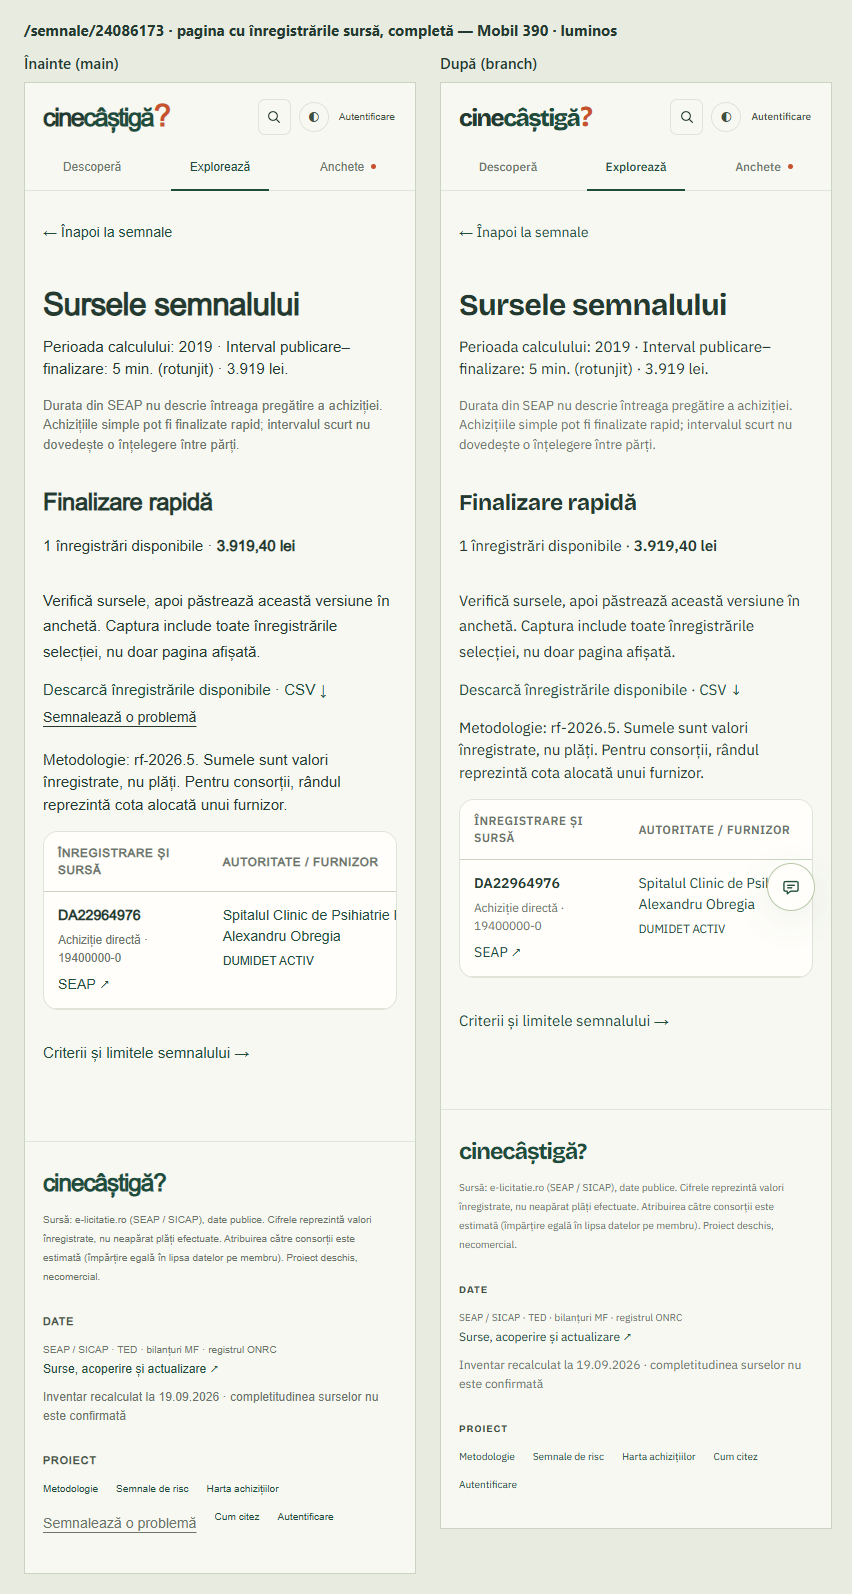
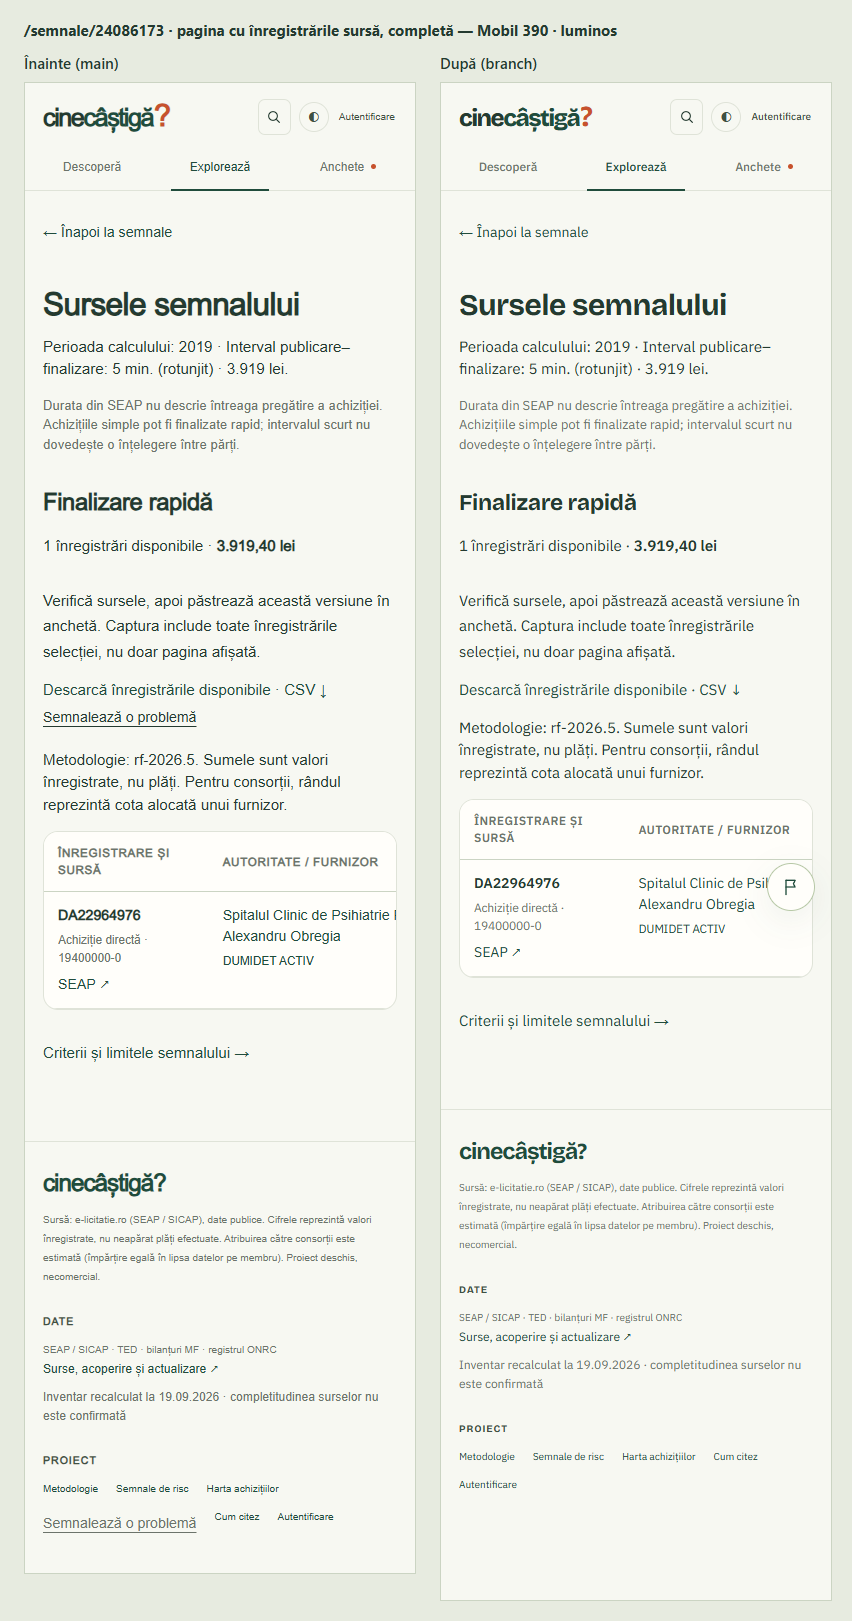
docs(feedback): dual-agent critique, refreshed previews and notes
- Dual-agent Impeccable critique snapshot (26/40; supersedes the earlier
  single-context run) and updated surface brief.
- Before/after captures re-taken against main, now including a 1280px
  laptop view; compare.json still reports HTTP 200, no overflow, no JS errors.
- anonymous-feedback.md, HANDOFF.md and the mockup README describe the final
  placement thresholds, flag icon and the critique fixes.

diff --git a/.impeccable/critique/2026-10-02T16-50-16Z__apps-web-components-feedback-reportproblem-tsx.md b/.impeccable/critique/2026-10-02T16-50-16Z__apps-web-components-feedback-reportproblem-tsx.md
@@ -1,0 +1,67 @@
+---
+target: floating Feedback tab (ReportProblem) - dual-agent
+total_score: 26
+max_score: 40
+na_heuristics: 
+p0_count: 0
+p1_count: 2
+target_identity: "file:F:\\CineCastiga\\seap-new\\apps\\web\\components\\feedback\\ReportProblem.tsx"
+target_fingerprint: "sha256:b647631ecc3925bb003219f9d031a194baafc1e752466b4918877f11a8278ab2"
+target_path: "F:\\CineCastiga\\seap-new\\apps\\web\\components\\feedback\\ReportProblem.tsx"
+timestamp: 2026-10-02T16-50-16Z
+slug: apps-web-components-feedback-reportproblem-tsx
+---
+Method: dual-agent (A: design-review sub-agent · B: detector/browser sub-agent)
+
+# Critique — floating Feedback tab (feat/floating-feedback), dual-agent re-run
+
+Target: `apps/web/components/feedback/ReportProblem.tsx`, `feedback.css`, `app/layout.tsx`; live on localhost (local snapshot data `seap_collab_20261001`, older than production). Mode: Operate. Supersedes the single-context run of the same day (31/40, degraded).
+
+| # | Heuristic | Score | Key Issue |
+|---|-----------|-------|-----------|
+| 1 | Visibility of System Status | 3 | Sending/success states are clear; the attached page silently goes stale after client-side navigation |
+| 2 | Match System / Real World | 3 | Romanian copy is natural, but "Feedback" plus a chat icon implies a conversation; the raw path is technical |
+| 3 | User Control and Freedom | 3 | Esc, ×, Renunță and focus return work; the attached page can't be corrected |
+| 4 | Consistency and Standards | 2 | aria-label promises "trimite o sugestie" but the dialog says "Descrie problema"; two focus-ring styles |
+| 5 | Error Prevention | 2 | Content collides with the tab; stale page attachment; 20-character minimum not shown up front |
+| 6 | Recognition Rather Than Recall | 3 | Always visible and labelled on desktop; icon-only on mobile |
+| 7 | Flexibility and Efficiency | 2 | Last tab stop; no in-context entry point; category never adapts to the page |
+| 8 | Aesthetic and Minimalist Design | 3 | Quiet and on-brand, but intrudes on content edges at common widths |
+| 9 | Error Recovery | 3 | Excellent timeout/409 messages; short input shows the browser's English bubble instead |
+| 10 | Help and Documentation | 2 | Privacy explained; nothing says what happens to a report |
+| **Total** | | **26/40** | **Acceptable** |
+
+## Design specificity
+LLM (A): the entry point is the stock SaaS feedback widget (right-edge vertical "Feedback" tab with a chat bubble). It is token-perfect and dark-mode clean, but generic in concept. The product-specific part is the existing dialog copy ("Ce ai observat?", "indică instituția, contractul sau cifra", "Pagina atașată"). Missed opportunity: a Romanian action label, and carrying record/answer context into the report.
+Deterministic (B): CLI markup scan (ReportProblem.tsx, layout.tsx) was clean, 0 findings. CSS scan found 3 advisories, all on dialog rules that existed before this branch (backdrop literal colour, 14px error text, 25px mobile h2). Browser overlay (port 8400, own tab, dark theme): /semnale/24086173 desktop had 7 findings, 1 on the change; mobile had 13, 1 on the change; /metodologie with the dialog open had 46, 1 on the change and 0 on the dialog. The single on-change finding is "1px border + 35px shadow blur" on `.feedback-fab`. It is likely token-consistent rather than a defect: `--shadow2` is used about 22 times and the search dialog gets the same flag. Everything else (line length, side-tab cards, 9–11px text in the search dialog and footer) predates this change. The overlay ran in a temporary tab that was closed; none remains.
+Agreement: both find the tab token-disciplined. A caught behavioural defects (stale page, overlap at specific widths, native validation) that no detector rule covers.
+
+## Overall impression
+Calm, on-brand and mechanically solid, but generic in concept. Two real defects need fixing before merge: reports can carry the wrong page, and the tab can hide exact values at some widths.
+
+## What's working
+- Token discipline in both themes, hidden in print, reduced motion respected, accent-soft hover.
+- Dialog mechanics: native modal in the top layer, Esc returns focus to the trigger, draft survives closing, idempotent submit, honeypot, privacy copy first.
+- Responsive switch to a 48px corner button with safe-area offset; label-in-name holds ("Feedback" starts the aria-label).
+
+## Priority issues
+- **[P1] The attached page goes stale.** One persistent layout instance only refreshes `sourcePath` when a new draft starts. Reproduced: open on /intreaba, type, Esc, navigate to / → still "Pagina atașată: /intreaba". Admins get the wrong page, which breaks traceability. Fix: refresh `sourcePath` from `pathname` on every open; keep the draft. Command: /impeccable harden.
+- **[P1] The tab covers content at many widths.** At 710px it clips "3.919,40" to "3.919,4" in the exact-value column; at 768, 1024 and 1280px it overlaps the table card or content edge by 5–10px; at 375px the round button sits on the full-width "Vezi cele 4 achiziții" button. Hiding exact values violates a core invariant. Fix: show the edge tab only with a real gutter (about ≥1360px) and use the corner button below that; reserve bottom padding on small screens. Command: /impeccable adapt.
+- **[P2] Keyboard and screen-reader reach.** It is the last tab stop (after the footer) and sits outside landmarks. Fix: wrap it in a labelled `<aside>` landmark (or add a skip link). Command: /impeccable harden.
+- **[P2] The label and icon promise a conversation.** "Feedback" plus a chat bubble suggests a reply channel; the copy is problem-only and anonymous. Fix: a flag-style icon and/or a Romanian action label; field label follows the category. Command: /impeccable clarify.
+
+## Persona red flags
+- **Sam (accessibility):** last tab stop, outside landmarks; dialog focus starts on the × close button rather than the first field; too-short input shows the browser's English bubble, never the Romanian role=alert message.
+- **Casey (mobile):** the corner button overlaps the full-width primary button on /intreaba; last footer lines pass under it; at 320×640 "Trimite anonim" sits below the fold; icon-only.
+- **Jordan (first-timer):** the chat icon implies someone will reply; the 20-character minimum is hidden until it fails ("17 / 3.000"); the attached page is a raw path, sometimes the wrong one.
+
+## Minor observations
+- Placeholder now uses `--ink2` (#3f5043), close to ink, so it reads as pre-filled text. This is a side effect of the variable fix; the app's other placeholders use `--muted`.
+- Header and tab both use z-index 30; no conflict observed.
+- The dark backdrop barely separates the dialog. The button shows on /login (no page attached). /admin hiding verified in code (logged-out /admin redirects to /login).
+- Pre-existing: `required minLength` triggers native validation before the Romanian message; "Renunță" keeps the draft; Explore attaches only "/intreaba" by design; hydration mismatch from the `<Reveal />` component.
+
+## Questions to consider
+- If the most valuable report is "this number is wrong", should the entry point carry the record or answer title into the dialog?
+- Should the edge tab appear only where a real gutter exists?
+- What could an anonymous reporter get back (a reference code, a link to known issues or coverage) so the flow doesn't end at a dead end?

diff --git a/apps/web/.impeccable/surfaces/apps-web-components-feedback-reportproblem-tsx.md b/apps/web/.impeccable/surfaces/apps-web-components-feedback-reportproblem-tsx.md
@@ -13,11 +13,11 @@ Mode: Operate. Primary target `apps/web/components/feedback/ReportProblem.tsx`; 
 
 THESIS: One quiet, always-available entry point for anonymous feedback, docked to the right edge. The existing dialog, copy, attached-page rules, validation, idempotency and privacy stay unchanged.
 
-OWN-WORLD: Existing tokens only: surface background, accent text, accent-line border, `--shadow2` elevation, Plex 500 14px, 8px radius on the free (left) corners, the shared orange focus ring, dark-theme variables. No new color, font or motion vocabulary.
+OWN-WORLD: Existing tokens only (flag icon, not a chat bubble: reporting, not a conversation; wrapped in `<aside aria-label="Feedback">`): surface background, accent text, accent-line border, `--shadow2` elevation, Plex 500 14px, 8px radius on the free (left) corners, the shared orange focus ring, dark-theme variables. No new color, font or motion vocabulary.
 
 STORY: The visitor notices a data problem or has a suggestion on any public page, opens the right-edge "Feedback" tab, sees the existing dialog with the public page attached, sends anonymously, and focus returns to the tab.
 
-FIRST VIEWPORT: Desktop: a vertical tab (icon + "Feedback", top-to-bottom), vertically centred on the right edge. At ≤700px it becomes a 48px round icon button in the bottom-right corner (16px + safe area), changed after the critique so it never covers the content edge; the accessible name stays "Feedback: semnalează o problemă sau trimite o sugestie". Hidden on `/admin/*` and in print.
+FIRST VIEWPORT: ≥1360px (where the 1256px shell leaves a real gutter): a vertical tab (flag icon + "Feedback", top-to-bottom), vertically centred on the right edge, 42–82px clear of content. Below 1360px: a 48px round flag button in the bottom-right corner (24px; 16px ≤700px; plus safe area), and the footer reserves 72px at the bottom. Both thresholds came from the dual-agent critique (the tab clipped an exact value at 710px and overlapped tables at 768–1340px); the accessible name stays "Feedback: semnalează o problemă sau trimite o sugestie". Hidden on `/admin/*` and in print.
 
 FORM: Replaces all three inline "Semnalează o problemă" triggers (footer, Explore answer actions, source-evidence pages), as the user decided. z-index 30: above sticky subnavs (≤20), below popovers (40), tooltips and toasts; modal dialogs (feedback, evidence drawer) live in the top layer and cover it. Reduced motion removes the hover transition.
 

diff --git a/HANDOFF.md b/HANDOFF.md
@@ -1,6 +1,6 @@
 ## 2026-10-02 — Buton „Feedback” plutitor, local
 
-Prima funcționalitate a colaboratorului, pe branch-ul `feat/floating-feedback` (fără commit/push la momentul notei; review și merge doar de proprietar). Linkurile „Semnalează o problemă” (footer, Explorează, pagini-sursă) sunt înlocuite de un singur buton „Feedback” lipit de marginea dreaptă, ales din [mockup](mockups/floating-feedback/README.md) (varianta A, discret). Ascuns în `/admin`; pe telefon, buton rotund în colțul din dreapta jos (ajustare după critica de design, 31/40); dialogul și API-ul neschimbate. Corectate separat variabilele CSS inexistente ale dialogului (câmpurile nu aveau contur). [Detalii și verificări](docs/implementation/anonymous-feedback.md#buton-feedback-plutitor--2-octombrie-2026); comparații înainte/după în `docs/implementation/previews/floating-feedback/`. TypeScript, 370 teste unitare web (148 integrări sărite), build și verificări browser trecute pe Windows/Node 22 cu baza locală restaurată. Fără migrare, SEAP sau deploy.
+Prima funcționalitate a colaboratorului, pe branch-ul `feat/floating-feedback` (fără commit/push la momentul notei; review și merge doar de proprietar). Linkurile „Semnalează o problemă” (footer, Explorează, pagini-sursă) sunt înlocuite de un singur buton „Feedback” lipit de marginea dreaptă, ales din [mockup](mockups/floating-feedback/README.md) (varianta A, discret). Tab doar de la 1360px în sus (unde există margine), sub prag buton rotund cu steag în colțul din dreapta jos; ascuns în `/admin`. După critica cu doi evaluatori (26/40) au fost corectate și pagina atașată rămasă veche după navigare, validarea afișată în engleză de browser, culoarea placeholderului și reperul pentru cititoare de ecran. Dialogul și API-ul de trimitere neschimbate. Corectate separat variabilele CSS inexistente ale dialogului (câmpurile nu aveau contur). [Detalii și verificări](docs/implementation/anonymous-feedback.md#buton-feedback-plutitor--2-octombrie-2026); comparații înainte/după în `docs/implementation/previews/floating-feedback/`. TypeScript, 370 teste unitare web (148 integrări sărite), build și verificări browser trecute pe Windows/Node 22 cu baza locală restaurată. Fără migrare, SEAP sau deploy.
 
 ## 2026-10-01 — Identități istorice reparate în producție
 

diff --git a/docs/implementation/previews/floating-feedback/compare.md b/docs/implementation/previews/floating-feedback/compare.md
@@ -4,6 +4,10 @@
 
 ![/semnale/24086173 desktop](https://raw.githubusercontent.com/Alex-Cosma/seap-new/feat/floating-feedback/docs/implementation/previews/floating-feedback/compare-semnale-24086173-desktop.png)
 
+**/semnale/24086173 · pagina cu înregistrările sursă, completă** — Laptop 1280 · luminos
+
+![/semnale/24086173 laptop](https://raw.githubusercontent.com/Alex-Cosma/seap-new/feat/floating-feedback/docs/implementation/previews/floating-feedback/compare-semnale-24086173-laptop.png)
+
 **/semnale/24086173 · pagina cu înregistrările sursă, completă** — Mobil 390 · luminos
 
 ![/semnale/24086173 mobile](https://raw.githubusercontent.com/Alex-Cosma/seap-new/feat/floating-feedback/docs/implementation/previews/floating-feedback/compare-semnale-24086173-mobile.png)

diff --git a/mockups/floating-feedback/README.md b/mockups/floating-feedback/README.md
@@ -34,7 +34,7 @@ Deschide <http://127.0.0.1:4185/floating-feedback/>. Nu este o rută Next.js și
 
 ## După alegere
 
-Varianta aleasă: **A, discret** (2 octombrie 2026). După critica de design, pe telefon butonul compact al variantei A folosește colțul din dreapta jos (ca B), ca să nu acopere marginea conținutului. Mockupul păstrează variantele inițiale, pentru comparație.
+Varianta aleasă: **A, discret** (2 octombrie 2026). După critica de design, aplicația folosește tabul A doar de la 1360px în sus; sub prag, butonul rotund din colțul din dreapta jos (ca B), ca să nu acopere marginea conținutului. Pictograma a devenit un steag. Mockupul păstrează variantele inițiale, pentru comparație.
 
 ## Date și limite
 
